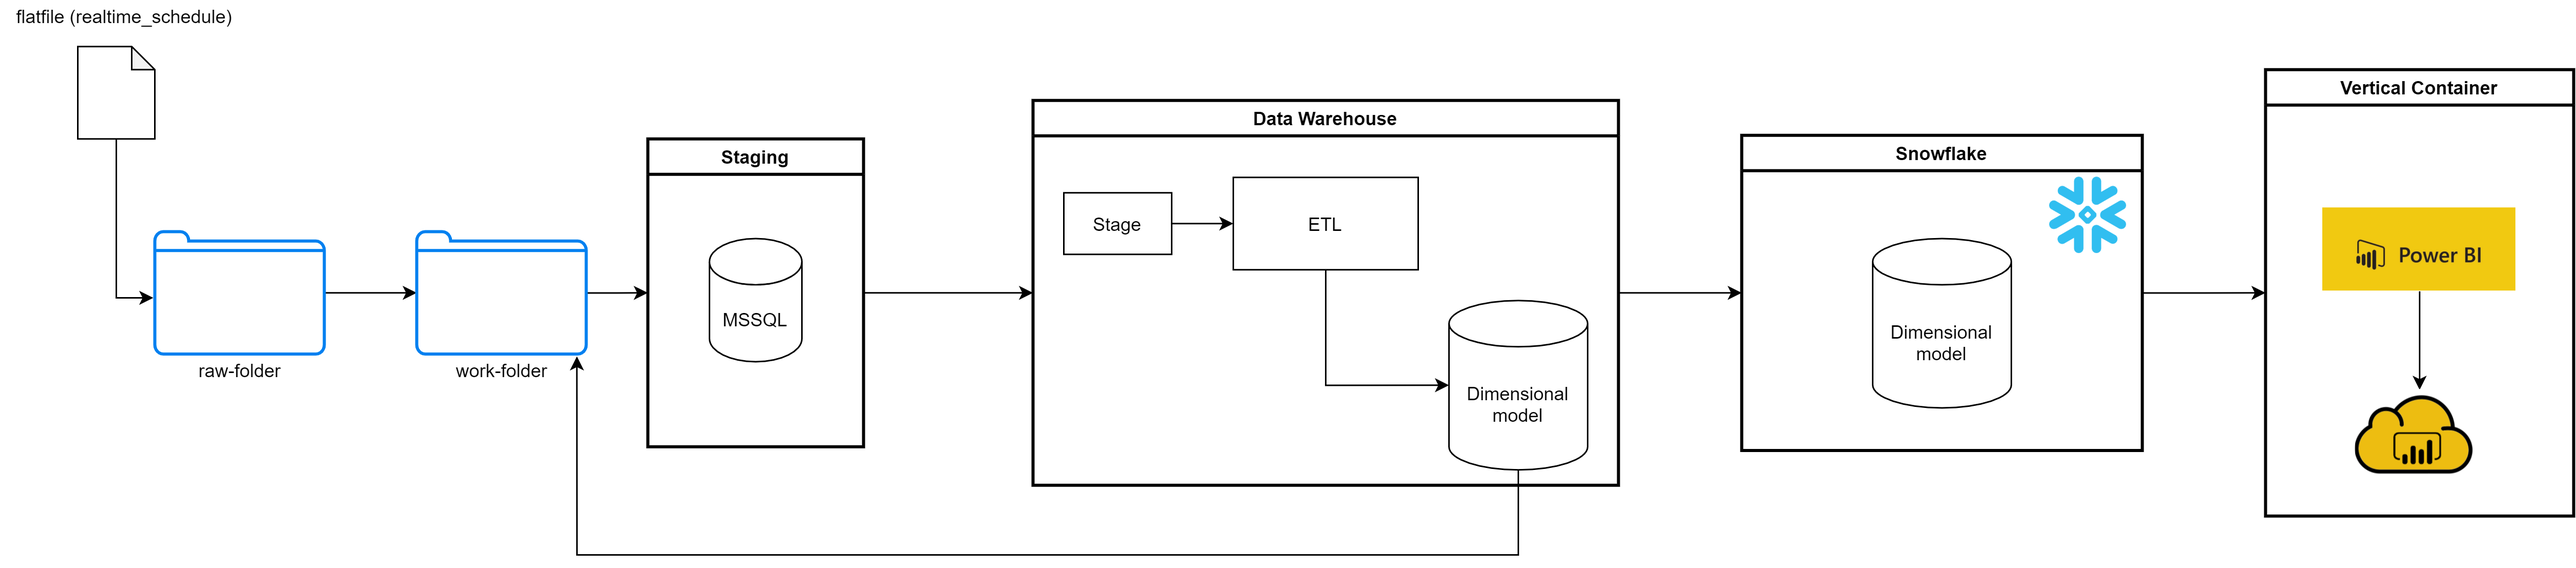
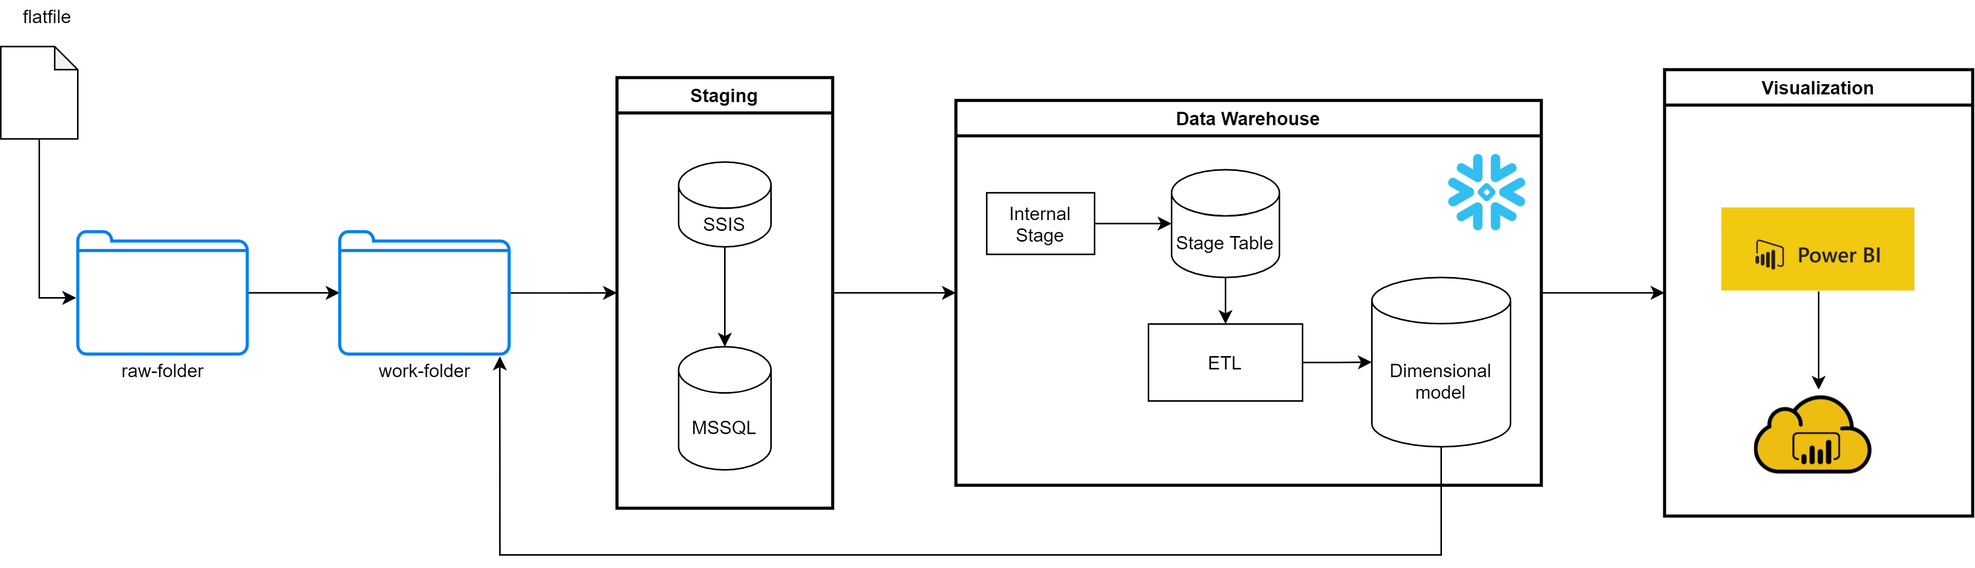
Update readme file

diff --git a/README.md b/README.md
@@ -3,26 +3,72 @@ Public Transportation
 
 Allocate resource and scheduling based on route, traffic, transport type information.
 
-## Decsription of this project
+## :bus: Decsription of this project
 
 This project is using for demo to FA about how to initialize a project and draft data pipeline.
 
-## Purpose
+## :dart: Purpose
 
-Building the data pipeline
+Building the data pipeline.
 
 # Detail of Work
-
-1. Design data pipeline [here](./docs/design.png "Architecture")
-2. Normalize and Denormalize data
+1. Generate data
+    - Generate data using `resources/data-generator.py` script to `raw-folder` and copy it to `work-folder`.
+2. Design data pipeline 
+    ![image](./docs/design.png)
 3. Build data model
-4. Ingest data from flat file
-5. Extract and Load into Data warehouse
-6. Load data onto Cloud with the transformation
-7. Enrich data with different data sources
-8. Visualize your data
+    - Schema
+    ![image](./docs/schema.png)
+    - Dimensional model
+    ![image](./docs/dimensional-model.png)
+4. Ingest data, Extract and Load into Data warehouse
+    - The flat file data first go into the staging area, where preprocessing with SSIS and put to MSSQL.
+5. Load data onto Snowflake with the transformation
+    - The SSIS will execute `src/snowflake/putFile.bat` to run `put` command on Snowflake (load data to the internal stage on Snowflake).
+    - `src/snowflake/loadData.py` will run after that to connect Snowflake endpoint to `copy` data from internal stage to destination table.
+6. Visualize your data
+    - Data on the dimensional tables is visualized on the Power BI dashboard.
 
 # How to setup
-1. Login into MSSQL and run [init_mssql.sql](./src/mssql/init_mssql.sql)
-2. Authen SnowSQL and run [init_snowflake.sql](./src/snowflake/init_snowfalke.sql)
-3. Generate data: `python data-generator.py`
+## :pushpin: Prerequisites
+- Install [Snowsql](https://docs.snowflake.com/en/user-guide/snowsql.html) and add the following setting to `config` file (Windows: `config` file located at `C:\Users\<user-name>\.snowsql`): 
+    ```
+    [connections.loadingdb]
+    accountname = <accountname> # Ask the repo owner for the accountname
+    username = <username> # Ask the repo owner for the username
+    password = <password> # Ask the repo owner for the password
+    warehousename = COMPUTE_LOADING
+    dbname = PUBLICTRANSPORTATION
+    schemaname = PUBLIC
+    rolename = sysadmin
+    ```
+- Install python dependencies: `pip install -r requirements.txt`. 
+    Make sure you can import libraries using `cmd`.
+    We recommend installing [Anaconda](https://www.anaconda.com/) and add `conda` environment to windows `PATH`.
+
+## :rocket: Usage
+1. Generate data: `python resources/data-generator.py`
+2. Login into MSSQL and run [init_mssql.sql](./src/mssql/init_mssql.sql)
+3. Authen SnowSQL and run [init_snowflake.sql](./src/snowflake/init_snowfalke.sql)
+4. Open `src/snowflake/putFile.bat`:
+    - Change the `-f` file path to the folder contain `src\snowflake\ssis2snow.sql` file.
+5. Open `src\snowflake\ssis2snow.sql`:
+    - Change all the path to the place that contains `resources/work-folder`, keep all the `.csv` name after the path.
+6. Open `src\snowflake\loadData.py`:
+    - Change `SRA_PATH`: Generate RSA key with the following command (Snowflake [document](https://docs.snowflake.com/en/user-guide/key-pair-auth.html)), you can change the directory to a temp folder so that it does not overwrite your existing key:
+    ```bash
+    openssl genrsa 2048 | openssl pkcs8 -topk8 -inform PEM -out rsa_key.p8
+    openssl rsa -in rsa_key.p8 -pubout -out rsa_key.pub
+    ```
+    - Send the `rsa_key.pub` file to the repo owner to add to your Snowflake user account.
+    - Change `LOG_PATH`: Change your path to the place contains `resources\logs`.
+7. Open SSIS [solution](./src/project1_team7_FA):
+    - Update `localhost.PublicTransportation` connection to the local database on SSMS.
+    - Update `variables`:
+        - `DataPath`: change your path to the place contains `resources\work-folder`.
+        - `ErrorPath`: change your path to the place contains `resources\logs`.
+        The error log will be stored here if there is any error during execution.
+        - `ExecutePath`: change your path to the place contains `src\snowflake`.
+        - `PythonExecutionPath`: change your path to the place contains `python.exe`.
+        If you use Anaconda, the path should look like this `C:\Users\<user-name>\Anaconda3\python.exe`.
+    - Execute the package.
